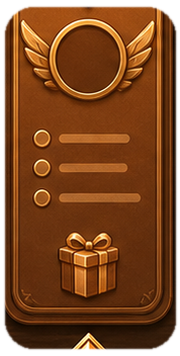
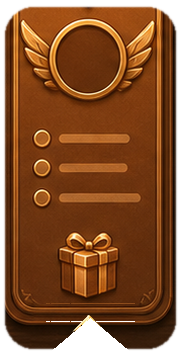
Move VIP card bottom stars above wood

Changed region(s): [[0.3056, 0.8652, 0.6944, 0.9888]]

diff --git a/Assets/GameManager.cs b/Assets/GameManager.cs
@@ -204,9 +204,7 @@ public class GameManager : MonoBehaviour
     private readonly List<Image> vipLevelLockImages = new List<Image>();
     private readonly List<Image> vipLevelSelectImages = new List<Image>();
     private readonly List<RectTransform> vipLevelButtonRects = new List<RectTransform>();
-    private readonly List<Image> vipLevelStarImages = new List<Image>();
     private readonly Dictionary<int, Sprite> vipCardSprites = new Dictionary<int, Sprite>();
-    private Sprite vipCardStarSprite;
     private int vipUnlockFlashLevel = 0;
     private float vipUnlockFlashEndTime = 0f;
     private bool vipInfoSeen = false;
@@ -3450,10 +3448,9 @@ public class GameManager : MonoBehaviour
         vipLevelLockImages.Clear();
         vipLevelSelectImages.Clear();
         vipLevelButtonRects.Clear();
-        vipLevelStarImages.Clear();
         for (int i = 1; i <= MaxVipLevel; i++)
         {
-            CreateVipCardButton(vipPanel.transform, i, new Vector2(-75f + ((i - 1) * 151f), 38f));
+            CreateVipCardButton(vipPanel.transform, i, new Vector2(-75f + ((i - 1) * 151f), 18f));
         }
 
         vipCoinBonusText = CreateVipBonusPill(vipPanel.transform, "Coin", "+0%", new Vector2(-420f, -212f), new Vector2(-11.651f, -27f), new Vector2(90.661f, 48f), new Color(1f, 0.72f, 0.14f, 1f));
@@ -3652,22 +3649,6 @@ public class GameManager : MonoBehaviour
         lockImage.preserveAspect = true;
         lockImage.raycastTarget = false;
         vipLevelLockImages.Add(lockImage);
-
-        GameObject starObject = new GameObject("BottomStar", typeof(RectTransform), typeof(CanvasRenderer), typeof(Image));
-        starObject.transform.SetParent(buttonObject.transform, false);
-        RectTransform starRect = starObject.GetComponent<RectTransform>();
-        starRect.anchorMin = new Vector2(0.5f, 0.5f);
-        starRect.anchorMax = new Vector2(0.5f, 0.5f);
-        starRect.anchoredPosition = new Vector2(0f, -124f);
-        starRect.sizeDelta = new Vector2(30f, 30f);
-
-        Image starImage = starObject.GetComponent<Image>();
-        starImage.sprite = GetVipCardStarSprite();
-        starImage.color = new Color(1f, 0.80f, 0.22f, 1f);
-        starImage.preserveAspect = true;
-        starImage.raycastTarget = false;
-        starObject.transform.SetAsLastSibling();
-        vipLevelStarImages.Add(starImage);
 
         Image selectGlow = CreatePanelStrip(buttonObject.transform, "SelectedGlow", new Vector2(0, -154), new Vector2(112, 10), new Color(1f, 0.78f, 0.18f, 0f));
         selectGlow.raycastTarget = false;
@@ -4021,71 +4002,6 @@ public class GameManager : MonoBehaviour
 
         texture.Apply();
         return Sprite.Create(texture, new Rect(0, 0, width, height), new Vector2(0.5f, 0.5f), 100f);
-    }
-
-    private Sprite GetVipCardStarSprite()
-    {
-        if (vipCardStarSprite == null)
-            vipCardStarSprite = CreateStarSprite(64, new Color(1f, 0.82f, 0.18f, 1f), new Color(0.34f, 0.16f, 0.03f, 1f));
-
-        return vipCardStarSprite;
-    }
-
-    private Sprite CreateStarSprite(int size, Color fillColor, Color borderColor)
-    {
-        Texture2D texture = new Texture2D(size, size, TextureFormat.RGBA32, false);
-        texture.filterMode = FilterMode.Bilinear;
-        texture.wrapMode = TextureWrapMode.Clamp;
-
-        Vector2 center = new Vector2((size - 1) * 0.5f, (size - 1) * 0.5f);
-        Vector2[] outerStar = BuildStarPoints(center, size * 0.45f, size * 0.19f);
-        Vector2[] innerStar = BuildStarPoints(center, size * 0.35f, size * 0.14f);
-        Color clear = new Color(0f, 0f, 0f, 0f);
-
-        for (int y = 0; y < size; y++)
-        {
-            for (int x = 0; x < size; x++)
-            {
-                Vector2 point = new Vector2(x, y);
-                Color pixel = clear;
-                if (IsPointInPolygon(point, outerStar))
-                    pixel = borderColor;
-                if (IsPointInPolygon(point, innerStar))
-                    pixel = fillColor;
-
-                texture.SetPixel(x, y, pixel);
-            }
-        }
-
-        texture.Apply();
-        return Sprite.Create(texture, new Rect(0, 0, size, size), new Vector2(0.5f, 0.5f), 100f);
-    }
-
-    private Vector2[] BuildStarPoints(Vector2 center, float outerRadius, float innerRadius)
-    {
-        Vector2[] points = new Vector2[10];
-        for (int i = 0; i < points.Length; i++)
-        {
-            float radius = i % 2 == 0 ? outerRadius : innerRadius;
-            float angle = Mathf.Deg2Rad * (-90f + (i * 36f));
-            points[i] = center + new Vector2(Mathf.Cos(angle) * radius, Mathf.Sin(angle) * radius);
-        }
-
-        return points;
-    }
-
-    private bool IsPointInPolygon(Vector2 point, Vector2[] polygon)
-    {
-        bool inside = false;
-        for (int i = 0, j = polygon.Length - 1; i < polygon.Length; j = i++)
-        {
-            bool intersects = ((polygon[i].y > point.y) != (polygon[j].y > point.y))
-                && (point.x < ((polygon[j].x - polygon[i].x) * (point.y - polygon[i].y) / (polygon[j].y - polygon[i].y)) + polygon[i].x);
-            if (intersects)
-                inside = !inside;
-        }
-
-        return inside;
     }
 
     private bool IsInsideRoundedRectPixel(int x, int y, int width, int height, int radius)
@@ -5262,23 +5178,11 @@ public class GameManager : MonoBehaviour
                 vipLevelSelectImages[i].color = new Color(1f, 0.78f, 0.18f, alpha);
             }
 
-            if (i < vipLevelStarImages.Count)
-            {
-                bool selected = selectedVipPreviewLevel == cardLevel;
-                Color starColor = vipLevel < cardLevel
-                    ? new Color(0.98f, 0.90f, 0.72f, 0.72f)
-                    : new Color(1f, 0.82f, 0.18f, 1f);
-                if (selected)
-                    starColor = new Color(1f, 0.92f, 0.30f, 1f);
-
-                vipLevelStarImages[i].color = starColor;
-            }
-
             if (i < vipLevelButtonRects.Count)
             {
                 bool selected = selectedVipPreviewLevel == cardLevel;
                 bool unlockFlash = vipUnlockFlashLevel == cardLevel && Time.time < vipUnlockFlashEndTime;
-                Vector2 basePosition = new Vector2(-75f + (i * 151f), 38f);
+                Vector2 basePosition = new Vector2(-75f + (i * 151f), 18f);
                 Vector2 targetPosition = selected ? basePosition + new Vector2(0f, -8f) : basePosition;
                 Vector3 targetScale = selected ? new Vector3(0.94f, 0.94f, 1f) : Vector3.one;
                 if (unlockFlash && !selected)
